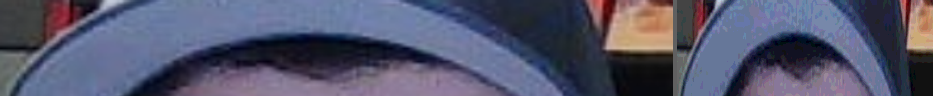
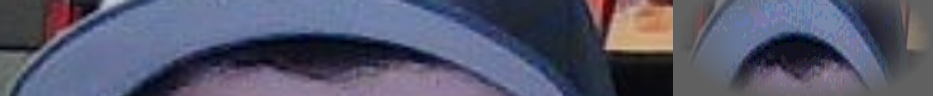
fix(face): hat alpha vignette — no more rectangular sky artifacts
Apply elliptical alpha vignette in bakeHat (mirroring bakeFacePlate's
approach). Center hot-spot at (w/2, h*0.40) with horizontal stretch +
top-bias so corners go transparent (sky/wall pixels removed) and bottom
feathers into the face plate beneath.

Result: clean cap silhouette atop the cranium with no rectangular
photo crop artifact. Bearded-man-with-cap reads cleanly.

Changed region(s): [[0.7149, 0.0, 1.0, 1.0]]

diff --git a/src/dev/face/feature-baker.ts b/src/dev/face/feature-baker.ts
@@ -472,6 +472,13 @@ function bakeHat(
   posterize(octx, spec.outW, spec.outH, spec.palette, spec.satBoost, undefined);
   if (spec.edgeEnhance) edgeEnhance(octx, spec.outW, spec.outH, 0.4);
 
+  // Phase H2c — alpha vignette so the rectangular hat crop fades into
+  // transparency at its corners (sky/wall pixels behind the cap) and
+  // along its bottom (forehead/hair feathering into the face plate
+  // mounted just below). The cap occupies the upper-center of the bbox;
+  // we want top center opaque, top corners transparent, bottom soft.
+  applyHatVignette(octx, spec.outW, spec.outH);
+
   // 3D placement: centroid of anchor landmarks shifted upward in mesh-Y
   // by ~half the upExpand we applied in pixel-space.
   const anchorCenter = landmarkCentroid3D(landmarks, spec.indices);
@@ -1138,6 +1145,66 @@ function applyEllipticalVignette(
   mctx.save();
   mctx.translate(cx, cy);
   mctx.scale(w / Math.min(w, h), h / Math.min(w, h));
+  mctx.translate(-cx, -cy);
+  mctx.fillStyle = grad;
+  mctx.fillRect(0, 0, w, h);
+  mctx.restore();
+
+  octx.save();
+  octx.globalCompositeOperation = 'destination-in';
+  octx.drawImage(mask, 0, 0);
+  octx.restore();
+}
+
+/**
+ * Phase H2c — hat-specific elliptical alpha vignette. The cap in a
+ * front-pose photo sits as a centered grey dome with sky/wall pixels in
+ * the top corners and the user's forehead/hair below. We want:
+ *   - Top center (cap apex)        → fully opaque
+ *   - Top corners (sky/wall)       → fully transparent
+ *   - Sides (cap edges)            → soft falloff
+ *   - Bottom (forehead/hair)       → soft alpha so the hat plane feathers
+ *     into the face plate mounted underneath
+ *
+ * Implementation: build an ellipse mask centered at the canvas's
+ * horizontal center but offset upward (top-bias) so the visible region
+ * tracks the cap. Outer ~25% feathers to transparent.
+ */
+function applyHatVignette(
+  octx: CanvasRenderingContext2D,
+  w: number,
+  h: number,
+): void {
+  const mask = document.createElement('canvas');
+  mask.width = w;
+  mask.height = h;
+  const mctx = mask.getContext('2d');
+  if (!mctx) return;
+  mctx.clearRect(0, 0, w, h);
+
+  // Center horizontally, top-bias: cap apex sits ~40% from top of bbox.
+  // We want a wide-but-short visible ellipse: cap aspect in the bbox is
+  // roughly 2:1 (wide). Build a radial gradient in unit-circle space,
+  // then non-uniformly scale via setTransform so the visible region
+  // stretches horizontally to match cap width.
+  const cx = w / 2;
+  const cy = h * 0.40;
+  // Base radius in unit-square space (use HALF the smaller dim so the
+  // ellipse fits without overshoot; we'll then stretch via transform).
+  const baseR = Math.min(w, h) / 2;
+  const grad = mctx.createRadialGradient(cx, cy, 0, cx, cy, baseR);
+  // Solid out to ~60% then aggressive feather to transparent. Tighter
+  // than facePlate (85%) because the hat bbox has more empty corner
+  // space (sky/wall pixels above the cap).
+  grad.addColorStop(0.0, 'rgba(0,0,0,1.0)');
+  grad.addColorStop(0.55, 'rgba(0,0,0,1.0)');
+  grad.addColorStop(1.0, 'rgba(0,0,0,0.0)');
+  // Stretch horizontally so the unit circle becomes a wide ellipse
+  // that hugs the cap (which spans almost the full bbox width but only
+  // ~70% of the bbox height).
+  mctx.save();
+  mctx.translate(cx, cy);
+  mctx.scale(w / Math.min(w, h), 1.4 * h / Math.min(w, h));
   mctx.translate(-cx, -cy);
   mctx.fillStyle = grad;
   mctx.fillRect(0, 0, w, h);
